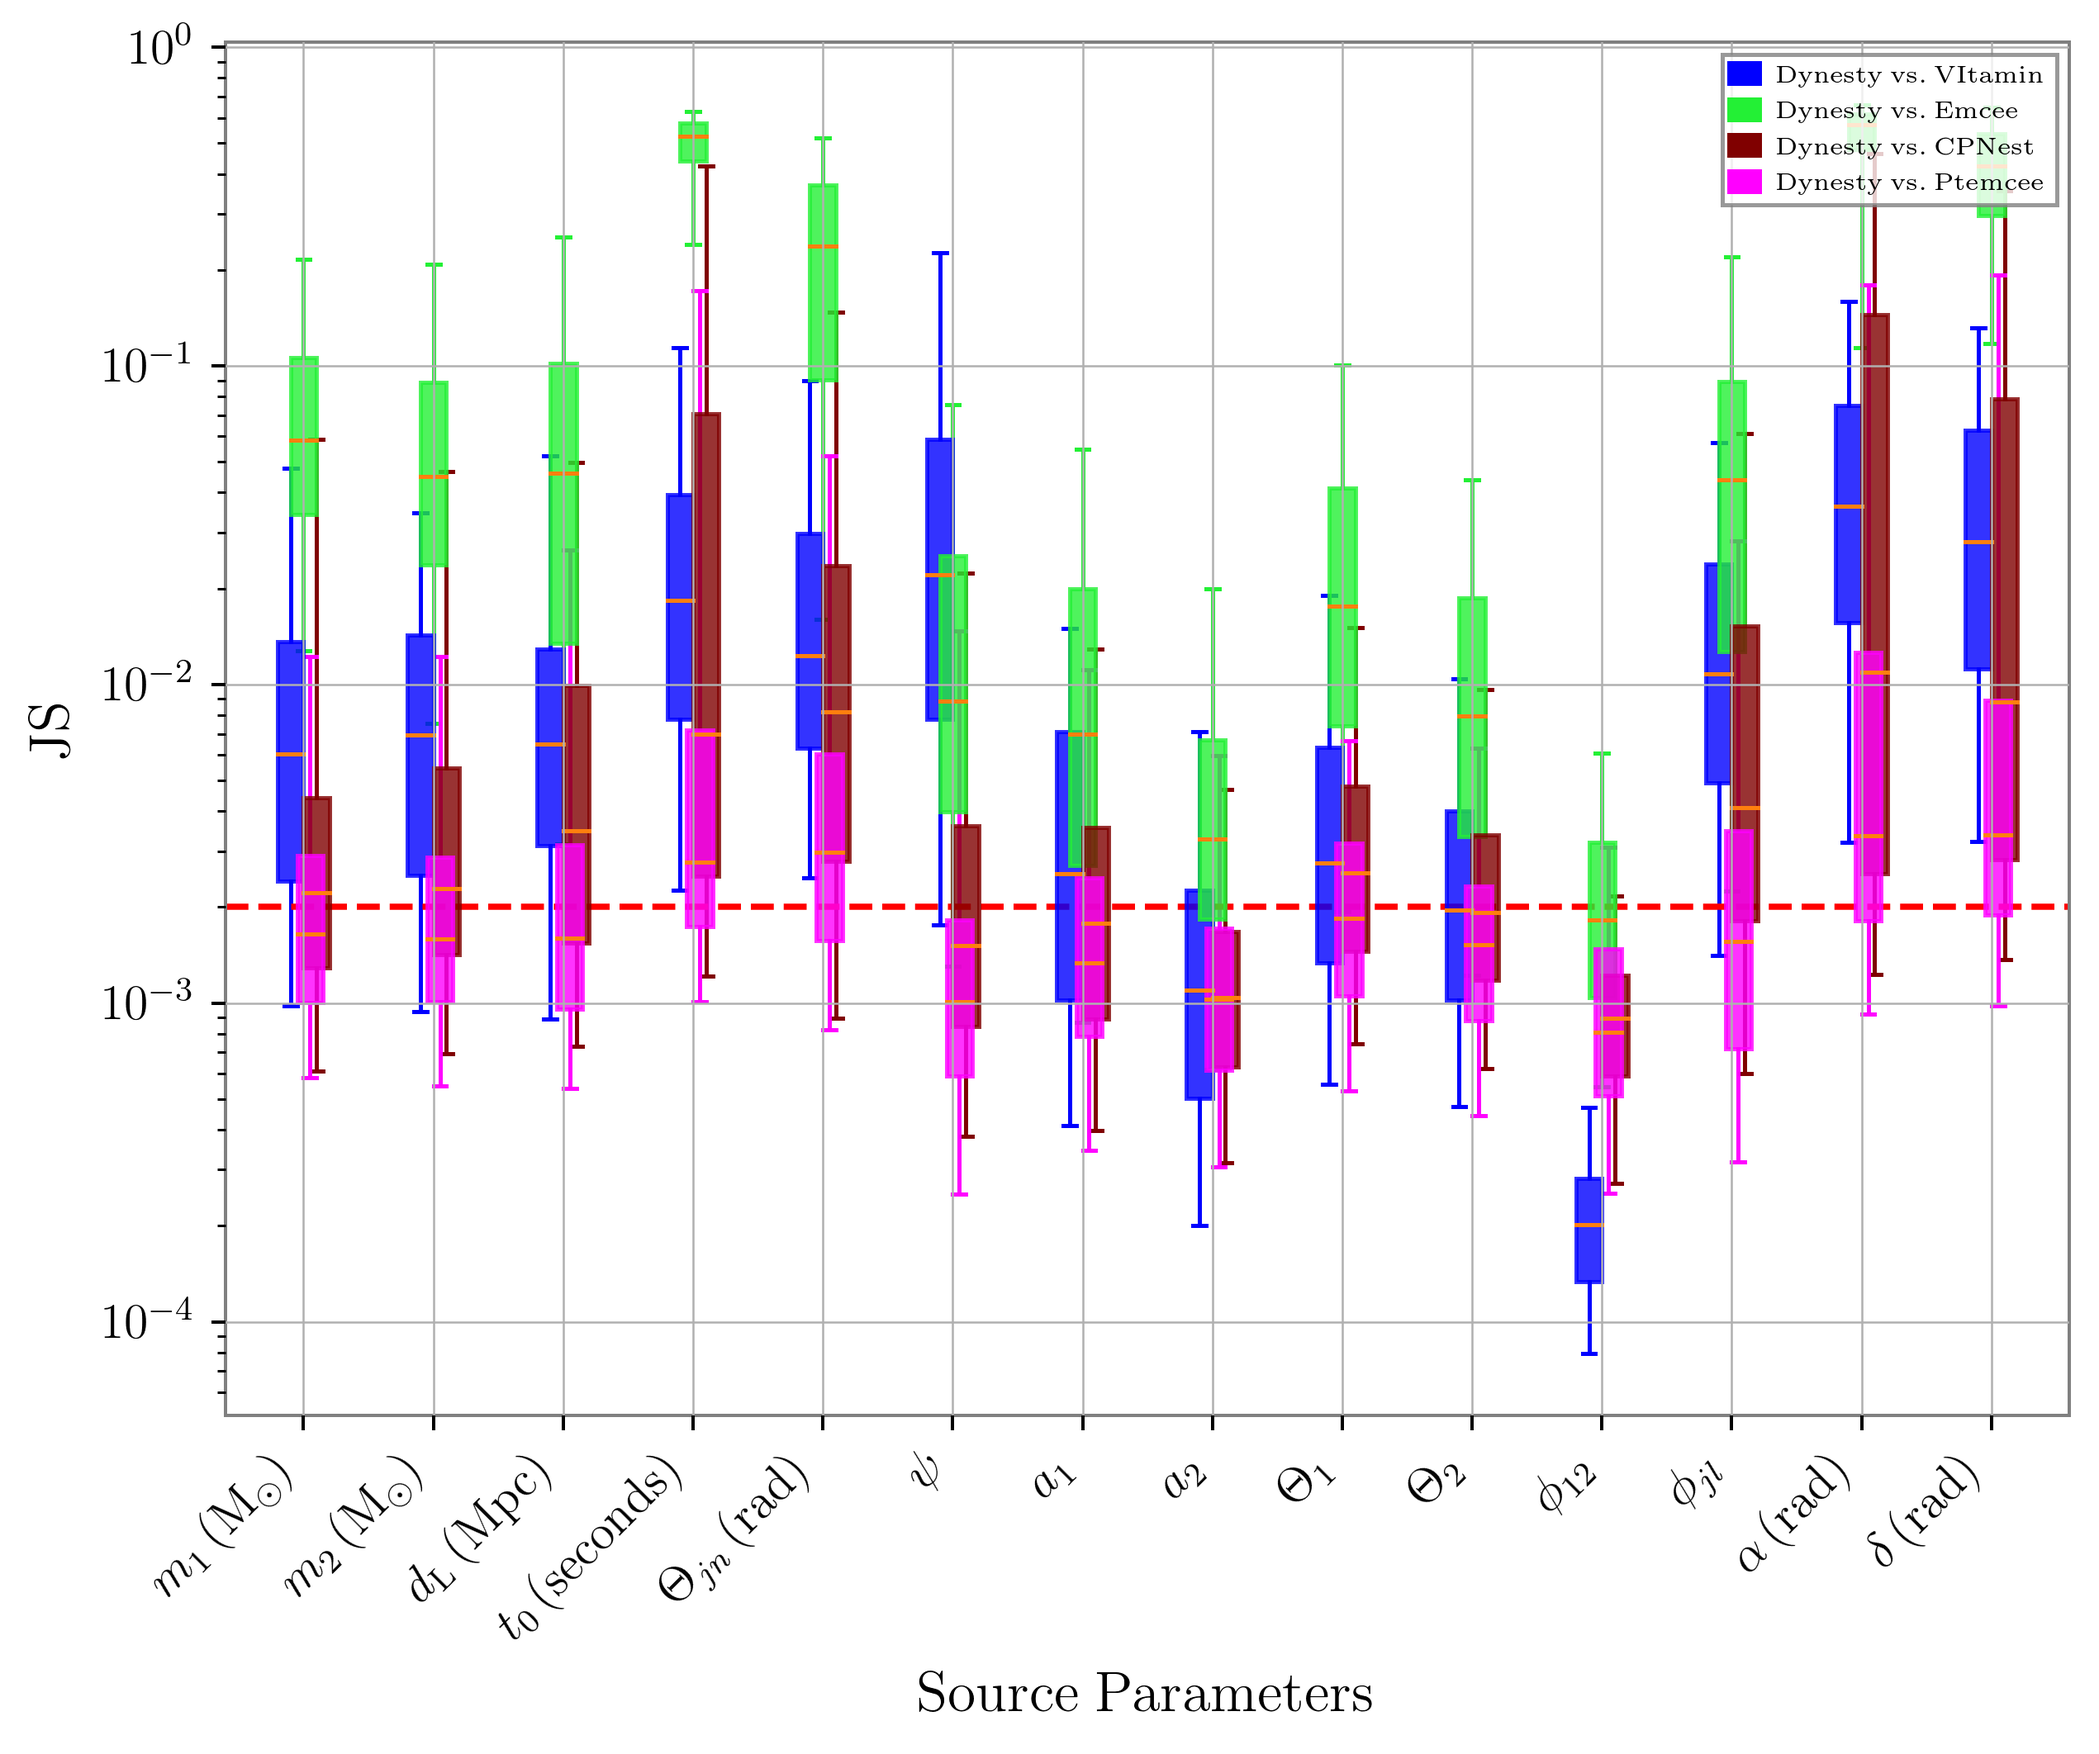
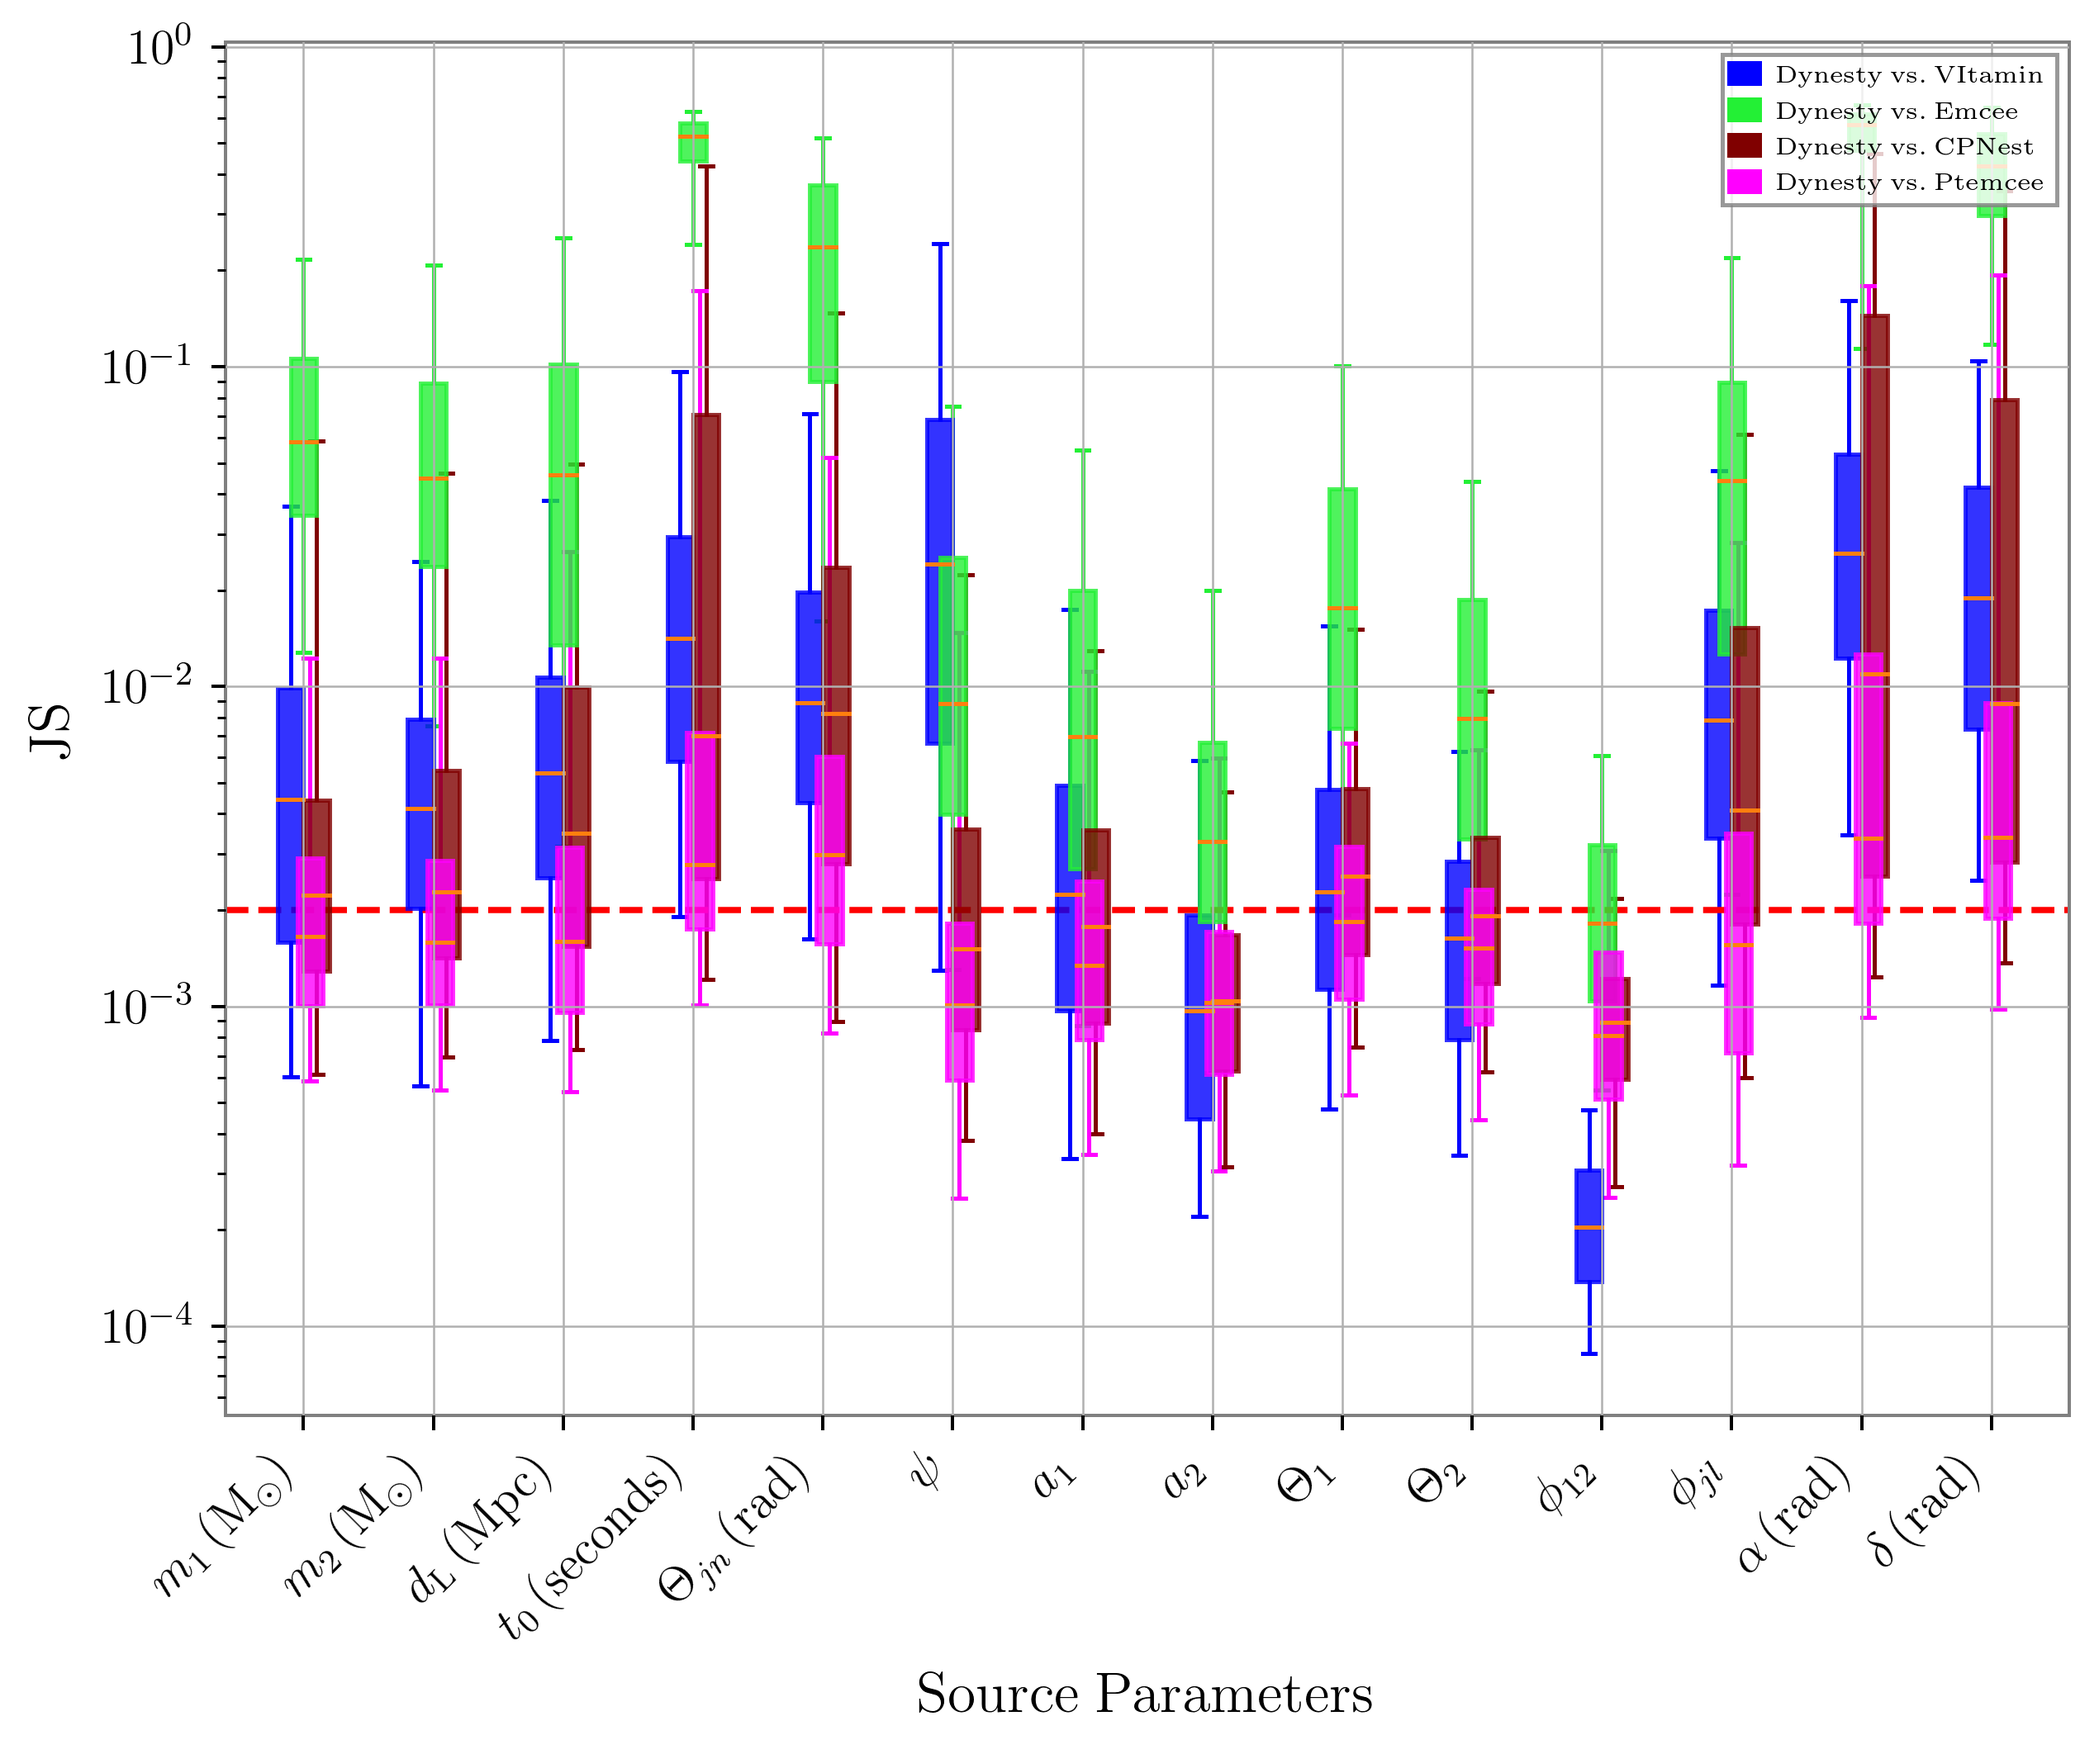
Updates with final fixed network (run_50)
1.) Updated the network hyperparameters table with the new network configuration
2.) Updated the 1D JS whisker plots and the pp plots with the new fixed network
results.

diff --git a/VItamin.tex b/VItamin.tex
@@ -985,123 +985,152 @@ dropout and batch-normalisation layers.
 \backslashbox{Layer}{Network} & $r_{\theta_1}(z|y)$ & $r_{\theta_2}(x|y,z)$ & $q_{\phi}(z|x,y)$ \\
 \hline
 %%%%%%%%%%%%%%%%%%%%%%%%%%%%%%%%
-\multirow{2}{*}{Input $y$} & \multirow{2}{*}{[256,3]\footnote{The shape of the
+\multirow{2}{*}{Input $y$} & \multirow{2}{*}{[1024,3]\footnote{The shape of the
 data [one-dimensional dataset length, No. channels].}} &
-\multirow{2}{*}{[256,3]} & \multirow{2}{*}{[256,3]} \\
+\multirow{2}{*}{[1024,3]} & \multirow{2}{*}{[1024,3]} \\
 & & & \\
 \hline
 %%%%%%%%%%%%%%%%%%%%%%%%%%%%%%%%
-\multirow{2}{*}{Layer 1} & conv(5,3,33)\footnote{one-dimensional
-convolutional filter with arguments (filter size, No. channels, No. filters).} & conv(5,3,33) & conv(5,3,33) \\
-& act\footnote{The activation function used.}=ReLU & act=ReLU & act=ReLU \\
+\multirow{2}{*}{Layer 1} & conv(64,3,96)\footnote{one-dimensional
+convolutional filter with arguments (filter size, No. channels, No. filters).} & conv(64,3,96) & conv(64,3,96) \\
+& act\footnote{The activation function used.}=LeakyReLU & act=LeakyReLU & act=LeakyReLU \\
 \hline
 %%%%%%%%%%%%%%%%%%%%%%%%%%%%%%%%
-\multirow{3}{*}{Layer 2} & conv(8,33,33) & conv(8,33,33) &
-conv(8,33,33) \\
-& maxpool(2,2)\footnote{Max-pooling layer with arguments (pool size, stride
-length).} & maxpool(2,2) & maxpool(2,2) \\
-& act=ReLU & act=ReLU & act=ReLU \\
+\multirow{3}{*}{Layer 2} & conv(32,96,96) & conv(32,96,96) &
+conv(32,96,96) \\
+& stride(4)\footnote{Striding layer with arguments (stride
+length).} & stride(4) & stride(4) \\
+& act=LeakyReLU & act=LeakyReLU & act=LeakyReLU \\
 \hline
 %%%%%%%%%%%%%%%%%%%%%%%%%%%%%%%%
-\multirow{2}{*}{Layer 3} & conv(11,33,33) & conv(11,33,33) &
-conv(11,33,33) \\
-& act=ReLU & act=ReLU & act=ReLU \\
+\multirow{2}{*}{Layer 3} & conv(32,96,96) & conv(32,96,96) &
+conv(32,96,96) \\
+& act=LeakyReLU & act=LeakyReLU & act=LeakyReLU \\
+\hline
+%%%%%%%%%%%%%%%%%%%%%%%%%%%%%%%%
+\multirow{2}{*}{Layer 4} & conv(16,96,96) & conv(16,96,96) &
+conv(16,96,96) \\
+& stride(2) & stride(2) & stride(2) \\
+& act=LeakyReLU & act=LeakyReLU & act=LeakyReLU \\
+\hline
+%%%%%%%%%%%%%%%%%%%%%%%%%%%%%%%%
+\multirow{2}{*}{Layer 5} & conv(16,96,96) & conv(16,96,96) &
+conv(16,96,96) \\
+& act=LeakyReLU & act=LeakyReLU & act=LeakyReLU \\
+\hline
+%%%%%%%%%%%%%%%%%%%%%%%%%%%%%%%%
+\multirow{2}{*}{Layer 6} & conv(16,96,96) & conv(16,96,96) &
+conv(16,96,96) \\
+& stride(2) & stride(2) & stride(2) \\
+& act=LeakyReLU & act=LeakyReLU & act=LeakyReLU \\
 \hline
 %%%%%%%%%%%%%%%%%%%%%%%%%%%%%%%%%
-\multirow{2}{*}{Input $z,x$} & \multirow{2}{*}{-} &
-flatten\footnote{Take the multi-channel output of the previous layer and
-reshape it into a one-dimensional vector.}$\rightarrow$[4224] & flatten$\rightarrow$[4224] \\
-& & append\footnote{Append the argument to the current dataset.}($z$)$\rightarrow$[4234] & append($x$)$\rightarrow$[4231] \\
+\multirow{2}{*}{Input $z,x$} & \multirow{2}{*}{flatten\footnote{Take the multi-channel output of the previous layer and
+reshape it into a one-dimensional vector.}$\rightarrow$[6144]} &
+flatten$\rightarrow$[6144] & flatten$\rightarrow$[6144] \\
+& & append\footnote{Append the argument to the current dataset.}($z$)$\rightarrow$[6159] & append($x$)$\rightarrow$[6159] \\
 \hline
 %%%%%%%%%%%%%%%%%%%%%%%%%%%%%%%%%
-\multirow{3}{*}{Layer 4} & 
+\multirow{3}{*}{Layer 7} & 
 \multirow{3}{*}{
 \begin{tabular}[t]{c}
-conv(10,33,33) \\
-maxpool(2,2) \\
-act=ReLU \\
+FC(6159,4096)\footnote{Fully
+connected layer with arguments (input size, output size).}\\
+act=LeakyReLU \\
 \end{tabular}
 } & 
 \multirow{3}{*}{
 \begin{tabular}[t]{c}
-FC(4234,2048)\footnote{Fully
-connected layer with arguments (input size, output size).}\\
-dropout(0.2)\footnote{Drop-out layer with argument (drop-out
-fraction).} \\
-act=ReLU \\
+FC(6159,4096) \\
+act=LeakyReLU \\
 \end{tabular}
 } &
 \multirow{3}{*}{
 \begin{tabular}[t]{c}
-FC(4231,2048) \\
-dropout(0.2) \\
-act=ReLU \\
+FC(6159,4096) \\
+act=LeakyReLU \\
 \end{tabular}
 } \\
 & & & \\
 & & & \\
 \hline
 %%%%%%%%%%%%%%%%%%%%%%%%%%%%%%%%%
-\multirow{3}{*}{Layer 5} &
+\multirow{3}{*}{Layer 8} & 
 \multirow{3}{*}{
 \begin{tabular}[t]{c}
-conv(10,33,33) \\ 
-act=ReLU \\
-flatten$\rightarrow$[2112] \\
+FC(4096,2048)\\
+act=LeakyReLU \\
 \end{tabular}
-}
- & FC(2048,2048) & FC(2048,2048) \\
- & & dropout(0.2) & dropout(0.2) \\
- & & act=ReLU & act=ReLU \\
- \hline
+} & 
+\multirow{3}{*}{
+\begin{tabular}[t]{c}
+FC(4096,2048) \\
+act=LeakyReLU \\
+\end{tabular}
+} &
+\multirow{3}{*}{
+\begin{tabular}[t]{c}
+FC(4096,2048) \\
+act=LeakyReLU \\
+\end{tabular}
+} \\
+& & & \\
+& & & \\
+\hline
 %%%%%%%%%%%%%%%%%%%%%%%%%%%%%%%%%
-\multirow{4}{*}{Layer 6} & 
+\multirow{3}{*}{Layer 9} & 
+\multirow{3}{*}{
+\begin{tabular}[t]{c}
+FC(2048,1024)\\
+act=LeakyReLU \\
+\end{tabular}
+} & 
+\multirow{3}{*}{
+\begin{tabular}[t]{c}
+FC(2048,1024)\\
+act=LeakyReLU \\
+\end{tabular}
+} &
+\multirow{3}{*}{
+\begin{tabular}[t]{c}
+FC(2048,1024) \\
+act=LeakyReLU \\
+\end{tabular}
+} \\
+& & & \\
+& & & \\
+\hline
+%%%%%%%%%%%%%%%%%%%%%%%%%%%%%%%%%
+\multirow{4}{*}{Layer 10} & 
 \multirow{4}{*}{
 \begin{tabular}[t]{c}
-FC(2112,2048) \\
-dropout=0.2 \\
-act=ReLU \\
+FC(1024,960) \\
+act=None \\
+output=$\mu_{r_1}$ \\
+$\rightarrow$[15,32,2]\footnote{The $r_{\theta_1}$ output has size
+[latent space dimension, No. modes, No. parameters defining each
+component per dimension].} \\
 \end{tabular}
 } & \multirow{4}{*}{
 \begin{tabular}[t]{c}
-FC(2048,14) \\
+FC(1024,30) \\
 act=(Sigmoid,-ReLU)\footnote{Different activations are used for different
 parameters. For the scaled parameter means we use
 sigmoids and for log-variances we use negative ReLU functions.} \\
 output=$\mu_{r_2}$ \\
-$\rightarrow$[7,2]\footnote{The $r_{\theta_2}$ output has size [physical space dimension, No. parameters defining
+$\rightarrow$[15,2]\footnote{The $r_{\theta_2}$ output has size [physical space dimension, No. parameters defining
 the distribution per dimension].} \\
 \end{tabular}
 } &
 \multirow{4}{*}{
 \begin{tabular}[t]{c}
-FC(2048,20) \\
+FC(1024,30) \\
 act=None \\
 output=$\mu_{q}$ \\
-$\rightarrow$[10,2]\footnote{The $q_{\phi}$ output has size [latent space
+$\rightarrow$[15,2]\footnote{The $q_{\phi}$ output has size [latent space
 dimension, No. parameters defining the distribution per dimension].} \\
 \end{tabular}
 } \\
-& & & \\
-& & & \\
-& & & \\
-\hline
-%%%%%%%%%%%%%%%%%%%%%%%%%%%%%%%%%
-\multirow{3}{*}{Layer 7} & FC(2048,2048) & & \\
-& dropout(0.2) & & \\
-& act=ReLU & & \\
-\hline
-%%%%%%%%%%%%%%%%%%%%%%%%%%%%%%%%%
-\multirow{4}{*}{Layer 8} & \multirow{4}{*}{
-\begin{tabular}[t]{c}
-FC(2048,320) \\
-act=None \\
-output=$\mu_{r_1}$ \\
-$\rightarrow$[10,16,2]\footnote{The $r_{\theta_1}$ output has size
-[latent space dimension, No. modes, No. parameters defining each
-component per dimension].} \\
-\end{tabular}
-} & & \\
 & & & \\
 & & & \\
 & & & \\
@@ -1367,7 +1396,7 @@ update and the phase/psi reparameterization trick.}
 parameter and for each benchmark sampler and \texttt{VItamin}. The curves were
 constructed using the 250 test datasets and the dashed black diagonal line
 indicates the ideal result. The best and worst-case $p$-values associated with each
-sampling method are (0.918,  0.047\texttt{VItamin}), (0.912, 0.007\texttt{Dynesty}), (0.931,0.007
+sampling method are (0.918,  0.047 \texttt{VItamin}), (0.912, 0.007 \texttt{Dynesty}), (0.931,0.007
 \texttt{ptemcee}), (0.706,0.007 \texttt{CPNest}), (0.667,0.004 \texttt{emcee} ). 
 }
 \end{figure}
